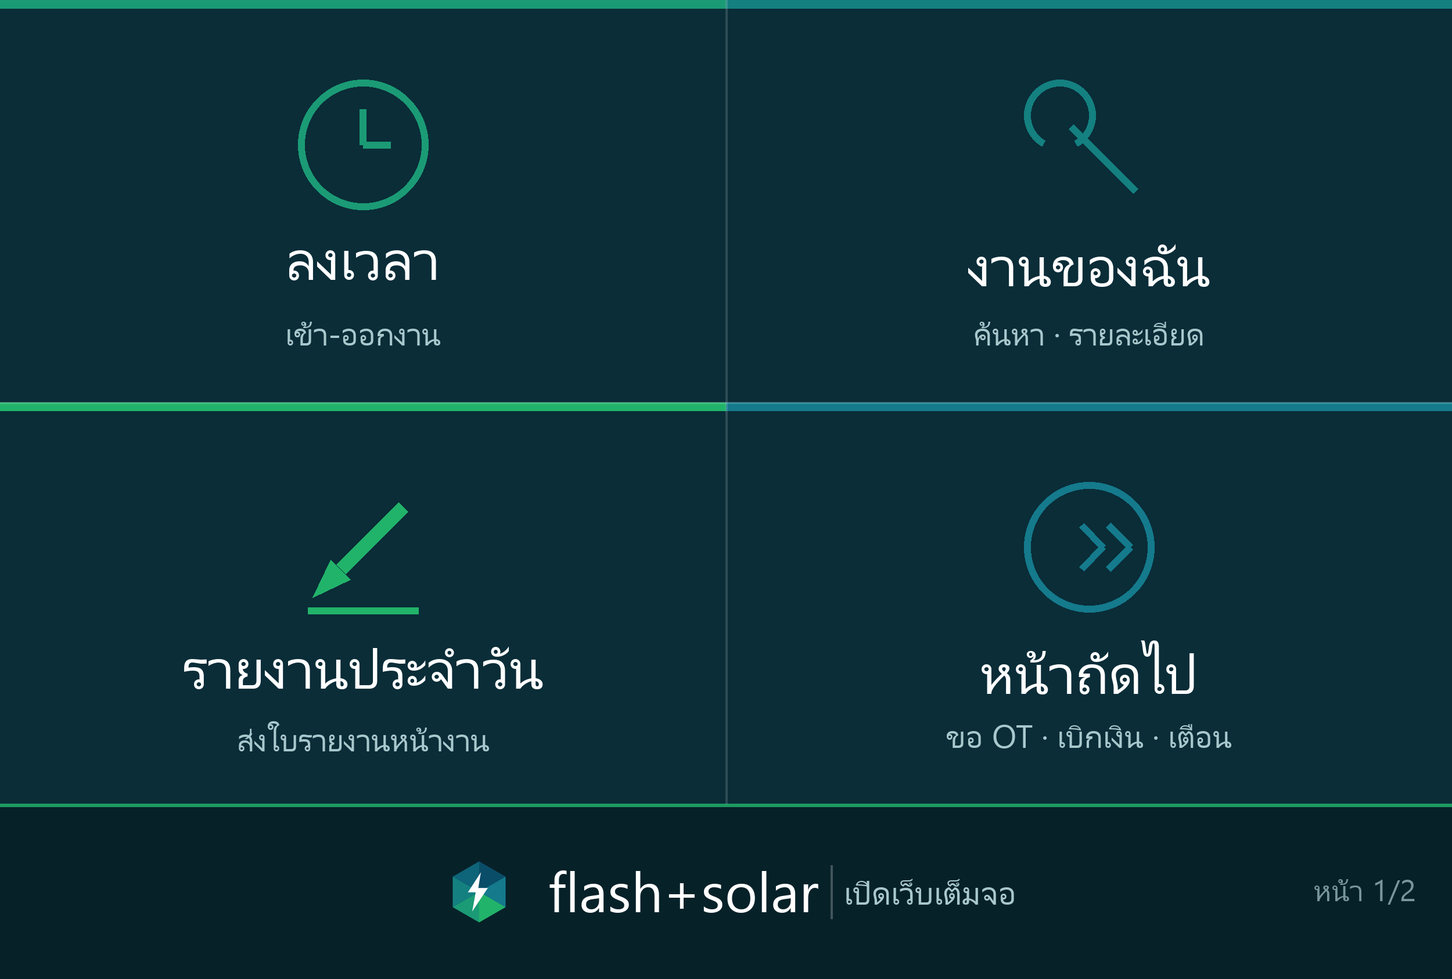
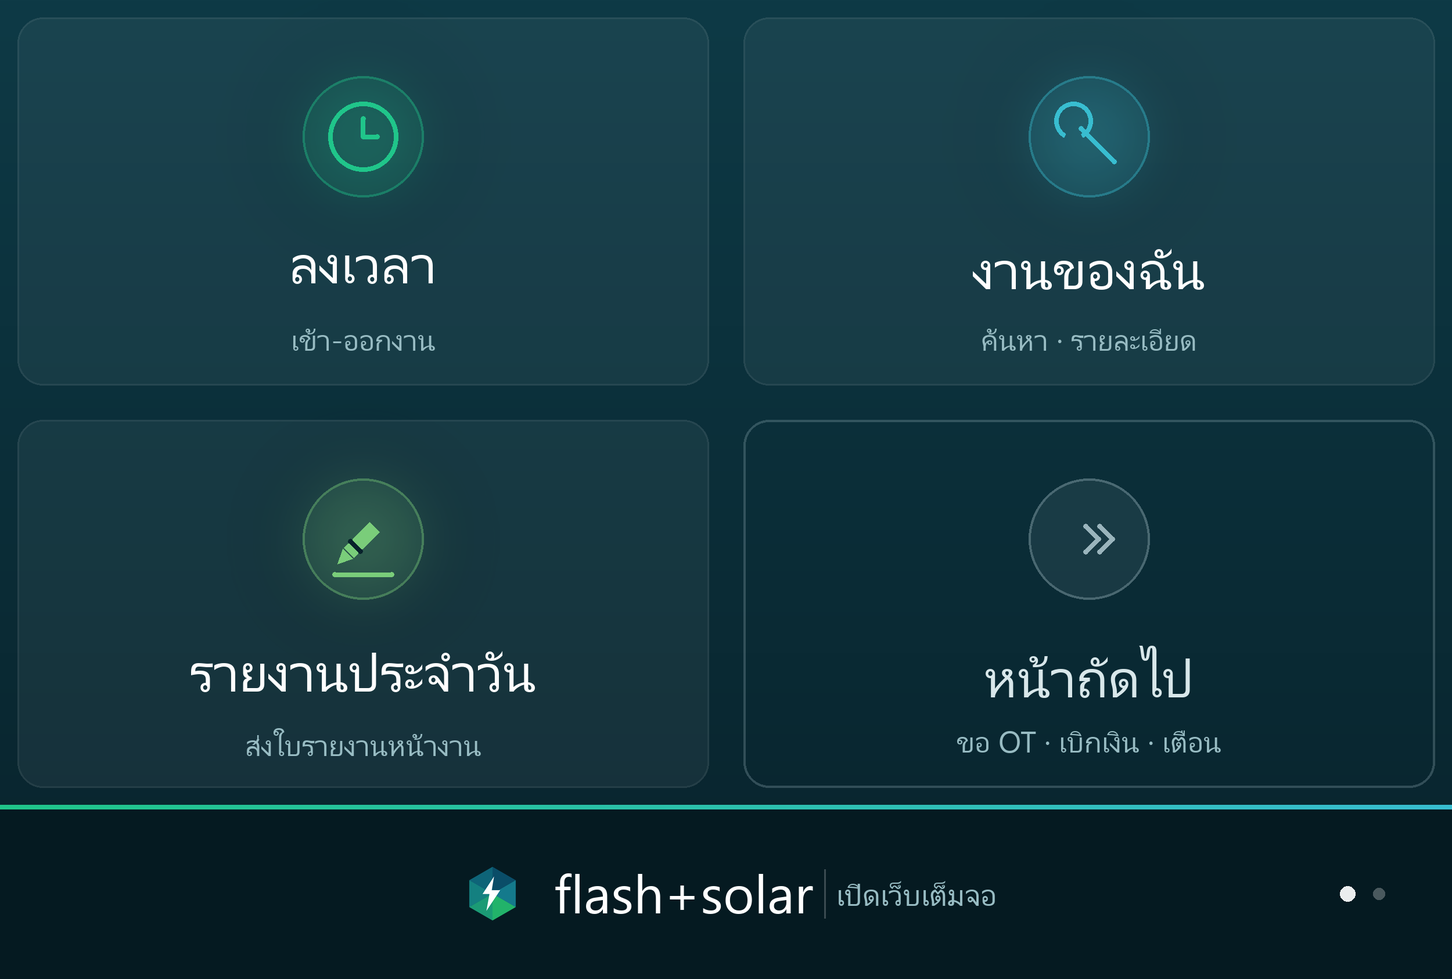
style(line): เมนูล่าง — การ์ดมุมมน พื้นไล่สี ไอคอนในวงกลม แยกทรงปุ่มสลับหน้า
รูปเดิมเป็นพื้นสีเดียวแบ่งช่องด้วยเส้นผมบาง ๆ บนจอแชทที่สว่างมันอ่านเป็น
กล่องทึบสี่เหลี่ยมหนึ่งใบ ไม่ใช่ปุ่มสี่ปุ่ม

- แต่ละช่องเป็นการ์ดมุมมนร่นเข้ามาจากขอบ 30px — พื้นที่กดยังเต็มช่องเหมือนเดิม
  กดพลาดไปโดนช่องว่างระหว่างการ์ดจึงยังได้ผลลัพธ์ที่ตั้งใจ
- ไอคอนอยู่ในวงกลมสีจาง มีแสงนวลเบลอรองอีกชั้น — ไอคอนเส้นบางลอยเดี่ยว ๆ
  สู้ตัวหนังสือ 96px ไม่ไหว
- ปุ่มสลับหน้าเป็นการ์ดโปร่งขอบสีเทา ลูกศรไม่มีวงกลมล้อม ต่างจากไอคอนฟีเจอร์
  ที่เป็นทรงปิด — ให้อ่านออกว่าเป็นทางไปอีกหน้า ไม่ใช่ฟีเจอร์ที่ห้า
- เลขหน้าในแถบล่างเปลี่ยนเป็นจุดสองจุด ไม่ต้องเติมตัวหนังสืออีกชุดเข้าไปในแถบ
- ไอคอนปากกาวาดใหม่เป็นรูปทรงจริง (ด้ามสี่เหลี่ยม + ปลายสามเหลี่ยม + ขีดคาด)
  ของเดิมเป็นเส้นหนาเฉียงคู่กับสามเหลี่ยมเล็ก ตาอ่านเป็นลูกศร ไม่ใช่ปากกา
- เส้นปลายมนทุกเส้นในไอคอน ImageDraw ลากเส้นปลายตัดตรงเสมอ ต้องแต้มวงกลม
  ที่ปลายเอง ให้เข้าชุดกับไอคอนเส้นในหน้าเว็บ

ดักไว้ในคอมเมนต์: ImageDraw.Draw(img, "RGBA") ผสมอัลฟาให้เฉพาะตอนภาพฐานเป็น RGB
ภาพฐานรอบนี้เป็น RGBA มันเขียนค่าดิบทับ วงกลมอัลฟา 26 ออกมาทึบจนกลืนไอคอนหาย
ของโปร่งทุกชิ้นจึงผ่าน overlay() ที่วาดลงเลเยอร์แยกแล้ว alpha_composite

ขนาดช่องยังเท่าเดิม 1250x693 แถบล่าง 300 — ตรงกับ cell() ใน richmenu.mjs
ตัวเลขชุดนี้ห้ามหลุดจากกัน ไม่งั้นปุ่มจะพาไปคนละที่กับที่รูปเขียนไว้

diff --git a/tools/richmenu-image.py b/tools/richmenu-image.py
@@ -18,37 +18,45 @@
 สี่ช่องบน 2x2 คือปุ่มงาน · แถบล่างเต็มความกว้างคือโลโก้ + ทางเข้าเว็บเต็มจอ
 แถบล่างเป็นพื้นที่กดได้เหมือนกัน ไม่ใช่ของตกแต่ง — ต้องตรงกับ AREAS ใน richmenu.mjs
 
+การ์ดมีระยะร่นเข้ามาจากขอบช่อง แต่ "พื้นที่กด" ยังเป็นสี่เหลี่ยมเต็มช่องเสมอ
+คนที่กดพลาดไปโดนช่องว่างระหว่างการ์ดจึงยังได้ผลลัพธ์ที่ตั้งใจ
+
 ไฟล์ผลลัพธ์ถูก commit ไว้ด้วย จะได้อัปเมนูขึ้น LINE ได้โดยไม่ต้องมี Pillow
 ให้รันสคริปต์นี้ใหม่เฉพาะตอนแก้ดีไซน์
 """
 import os
-from PIL import Image, ImageDraw, ImageFont
+from PIL import Image, ImageDraw, ImageFont, ImageFilter
 
 W, H = 2500, 1686          # ขนาดเต็มของเมนูล่าง LINE ต้องเป๊ะตามนี้
 BAR = 300                  # ความสูงของแถบโลโก้ด้านล่าง
 COLS, ROWS = 2, 2
 CW, CH = W // COLS, (H - BAR) // ROWS
 
-BG     = (10, 45, 56)      # พื้นหลังเข้ม — ตัดกับหน้าจอแชทที่สว่าง
-BAR_BG = (7, 33, 41)       # แถบล่างเข้มกว่าอีกนิด ให้อ่านออกว่าเป็นคนละส่วน
-LINE_C = (255, 255, 255, 38)
+PAD = 30                   # ระยะจากขอบช่องถึงขอบการ์ด
+RAD = 44                   # ความมนของมุมการ์ด
+
+TOP    = (14, 58, 70)      # พื้นไล่สีแนวตั้ง — สีเดียวทั้งใบทำให้ภาพดูแบนเหมือนกล่องทึบ
+BOTTOM = (8, 34, 43)
+CARD   = (255, 255, 255, 13)
+CARD_E = (255, 255, 255, 28)
 TEXT   = (255, 255, 255)
-SUB    = (168, 200, 205)
+SUB    = (152, 188, 195)
+BAR_BG = (5, 26, 33)
 
 # หน้าแรก — เรื่องที่ช่างกดทุกวัน
 PAGE1 = [
-    {"th": "ลงเวลา",          "sub": "เข้า-ออกงาน",              "color": (27, 155, 117), "icon": "clock"},
-    {"th": "งานของฉัน",       "sub": "ค้นหา · รายละเอียด",        "color": (20, 128, 128), "icon": "search"},
-    {"th": "รายงานประจำวัน",  "sub": "ส่งใบรายงานหน้างาน",        "color": (34, 179, 106), "icon": "pen"},
-    {"th": "หน้าถัดไป",       "sub": "ขอ OT · เบิกเงิน · เตือน",  "color": (20, 122, 140), "icon": "next"},
+    {"th": "ลงเวลา",          "sub": "เข้า-ออกงาน",              "color": (32, 197, 138), "icon": "clock"},
+    {"th": "งานของฉัน",       "sub": "ค้นหา · รายละเอียด",        "color": (56, 189, 208), "icon": "search"},
+    {"th": "รายงานประจำวัน",  "sub": "ส่งใบรายงานหน้างาน",        "color": (122, 205, 122), "icon": "pen"},
+    {"th": "หน้าถัดไป",       "sub": "ขอ OT · เบิกเงิน · เตือน",  "color": (154, 180, 188), "icon": "next", "nav": True},
 ]
 
 # หน้าสอง — เรื่องเอกสาร กดไม่บ่อยเท่า แต่ต้องหาเจอ
 PAGE2 = [
-    {"th": "ขอ OT",      "sub": "ทำงานล่วงเวลา",            "color": (34, 179, 106), "icon": "plus"},
-    {"th": "เบิกเงิน",   "sub": "ค่าใช้จ่ายหน้างาน",         "color": (27, 155, 117), "icon": "wallet"},
-    {"th": "แจ้งเตือน",  "sub": "งานใหม่ · เอกสารตีกลับ",    "color": (20, 128, 128), "icon": "bell"},
-    {"th": "ย้อนกลับ",   "sub": "ลงเวลา · งาน · รายงาน",     "color": (20, 122, 140), "icon": "back"},
+    {"th": "ขอ OT",      "sub": "ทำงานล่วงเวลา",            "color": (245, 183, 66),  "icon": "plus"},
+    {"th": "เบิกเงิน",   "sub": "ค่าใช้จ่ายหน้างาน",         "color": (32, 197, 138),  "icon": "wallet"},
+    {"th": "แจ้งเตือน",  "sub": "งานใหม่ · เอกสารตีกลับ",    "color": (56, 189, 208),  "icon": "bell"},
+    {"th": "ย้อนกลับ",   "sub": "ลงเวลา · งาน · รายงาน",     "color": (154, 180, 188), "icon": "back", "nav": True},
 ]
 
 FONT_DIR = os.path.join(os.environ.get("WINDIR", r"C:\Windows"), "Fonts")
@@ -65,52 +73,67 @@ def font(name, size):
     return ImageFont.load_default()
 
 
+def seg(d, x1, y1, x2, y2, color, w):
+    """เส้นปลายมน — ImageDraw ลากเส้นปลายตัดตรงเสมอ ไอคอนเลยดูแข็งกว่าที่ควร
+       เติมวงกลมที่ปลายทั้งสองข้างเอง ให้เข้าชุดกับไอคอนเส้นในหน้าเว็บ"""
+    d.line([x1, y1, x2, y2], fill=color, width=w)
+    r = w // 2
+    for x, y in ((x1, y1), (x2, y2)):
+        d.ellipse([x - r, y - r, x + r, y + r], fill=color)
+
+
 def draw_icon(d, kind, cx, cy, r, color):
     """ไอคอนวาดมือด้วยรูปทรงพื้นฐาน — ไม่พึ่งฟอนต์ไอคอนหรือไฟล์ภาพจากที่อื่น"""
-    w = max(6, r // 9)
+    w = max(7, int(r * 0.14))
     if kind == "clock":
         d.ellipse([cx - r, cy - r, cx + r, cy + r], outline=color, width=w)
-        d.line([cx, cy, cx, cy - int(r * 0.55)], fill=color, width=w)
-        d.line([cx, cy, cx + int(r * 0.42), cy], fill=color, width=w)
+        seg(d, cx, cy, cx, cy - int(r * 0.52), color, w)
+        seg(d, cx, cy, cx + int(r * 0.4), cy, color, w)
     elif kind == "bell":
         d.arc([cx - r, cy - r, cx + r, cy + int(r * 0.5)], 180, 360, fill=color, width=w)
-        d.line([cx - r, cy + int(r * 0.25), cx + r, cy + int(r * 0.25)], fill=color, width=w)
-        d.line([cx - r, cy + int(r * 0.25), cx - r, cy - int(r * 0.1)], fill=color, width=w)
-        d.line([cx + r, cy + int(r * 0.25), cx + r, cy - int(r * 0.1)], fill=color, width=w)
-        d.arc([cx - int(r * 0.32), cy + int(r * 0.1), cx + int(r * 0.32), cy + int(r * 0.62)],
+        seg(d, cx - r, cy + int(r * 0.25), cx - r, cy - int(r * 0.12), color, w)
+        seg(d, cx + r, cy + int(r * 0.25), cx + r, cy - int(r * 0.12), color, w)
+        seg(d, cx - int(r * 1.14), cy + int(r * 0.28), cx + int(r * 1.14), cy + int(r * 0.28), color, w)
+        d.arc([cx - int(r * 0.3), cy + int(r * 0.16), cx + int(r * 0.3), cy + int(r * 0.72)],
               0, 180, fill=color, width=w)
     elif kind == "plus":
         d.ellipse([cx - r, cy - r, cx + r, cy + r], outline=color, width=w)
-        d.line([cx - int(r * 0.5), cy, cx + int(r * 0.5), cy], fill=color, width=w)
-        d.line([cx, cy - int(r * 0.5), cx, cy + int(r * 0.5)], fill=color, width=w)
+        seg(d, cx - int(r * 0.44), cy, cx + int(r * 0.44), cy, color, w)
+        seg(d, cx, cy - int(r * 0.44), cx, cy + int(r * 0.44), color, w)
     elif kind == "pen":
-        # ปากกาเฉียง — ด้ามหนา + ปลายปากกาเป็นสามเหลี่ยมตัน แล้วขีดเส้นบรรทัดรองข้างใต้
-        # (ลากเป็นเส้นบาง ๆ อย่างเดียวจะดูเป็นขีดเฉย ๆ ไม่ใช่ปากกา)
-        d.line([cx - int(r * 0.34), cy + int(r * 0.34), cx + int(r * 0.62), cy - int(r * 0.62)],
-               fill=color, width=int(w * 2.1))
-        d.polygon([(cx - int(r * 0.78), cy + int(r * 0.78)),
-                   (cx - int(r * 0.5), cy + int(r * 0.2)),
-                   (cx - int(r * 0.2), cy + int(r * 0.5))], fill=color)
-        d.line([cx - int(r * 0.85), cy + int(r * 0.98), cx + int(r * 0.85), cy + int(r * 0.98)],
-               fill=color, width=w)
+        # ปากกาเฉียง — วาดเป็นรูปทรงจริง (ด้ามสี่เหลี่ยม + ปลายสามเหลี่ยม) ไม่ใช่เส้นหนา
+        # เส้นหนาเฉียง ๆ กับสามเหลี่ยมเล็กรวมกันแล้วตาอ่านเป็น "ลูกศร" ไม่ใช่ปากกา
+        k = 0.7071
+        ux, uy = k, -k          # ทิศจากปลายปากกาไปทางด้าม
+        nx, ny = k, k           # ตั้งฉาก ใช้วัดความหนาด้าม
+        hw = r * 0.2
+        tipx, tipy = cx - r * 0.72, cy + r * 0.72
+
+        def at(s, o):
+            return (tipx + ux * r * s + nx * o, tipy + uy * r * s + ny * o)
+
+        d.polygon([(tipx, tipy), at(0.4, -hw), at(0.4, hw)], fill=color)          # ปลายปากกา
+        d.polygon([at(0.46, -hw), at(1.5, -hw), at(1.5, hw), at(0.46, hw)], fill=color)   # ด้าม
+        # ขีดคาดด้าม — ให้เห็นว่าเป็นปากกาไม่ใช่แท่งเปล่า ใช้สีพื้นการ์ดเจาะเป็นร่อง
+        seg(d, at(0.72, -hw)[0], at(0.72, -hw)[1], at(0.72, hw)[0], at(0.72, hw)[1], BOTTOM, w)
+        seg(d, cx - int(r * 0.82), cy + int(r * 1.02), cx + int(r * 0.82), cy + int(r * 1.02), color, w)
     elif kind == "wallet":
         d.rounded_rectangle([cx - r, cy - int(r * 0.66), cx + r, cy + int(r * 0.66)],
-                            radius=int(r * 0.22), outline=color, width=w)
-        d.line([cx - r, cy - int(r * 0.2), cx + r, cy - int(r * 0.2)], fill=color, width=w)
-        d.ellipse([cx + int(r * 0.28), cy + int(r * 0.02), cx + int(r * 0.58), cy + int(r * 0.32)],
+                            radius=int(r * 0.26), outline=color, width=w)
+        seg(d, cx - int(r * 0.86), cy - int(r * 0.2), cx + int(r * 0.86), cy - int(r * 0.2), color, w)
+        d.ellipse([cx + int(r * 0.24), cy + int(r * 0.04), cx + int(r * 0.56), cy + int(r * 0.36)],
                   fill=color)
     elif kind in ("next", "back"):
+        # ปุ่มนำทางใช้ลูกศรเปล่า ไม่มีวงกลมล้อม — ให้ต่างจากไอคอนฟีเจอร์ที่เป็นทรงปิด
         s = 1 if kind == "next" else -1
-        d.ellipse([cx - r, cy - r, cx + r, cy + r], outline=color, width=w)
-        for dx in (-0.12, 0.3):
-            d.line([cx + s * int(r * dx), cy - int(r * 0.34),
-                    cx + s * int(r * (dx + 0.34)), cy], fill=color, width=w)
-            d.line([cx + s * int(r * (dx + 0.34)), cy,
-                    cx + s * int(r * dx), cy + int(r * 0.34)], fill=color, width=w)
+        for dx in (-0.1, 0.3):
+            seg(d, cx + s * int(r * dx), cy - int(r * 0.38),
+                cx + s * int(r * (dx + 0.38)), cy, color, w)
+            seg(d, cx + s * int(r * (dx + 0.38)), cy,
+                cx + s * int(r * dx), cy + int(r * 0.38), color, w)
     else:  # search — แว่นขยาย: วงแหวนเปิดมุมล่างขวา + ด้าม
         d.arc([cx - r, cy - r, cx + int(r * 0.1), cy + int(r * 0.1)], 120, 60, fill=color, width=w)
-        d.line([cx - int(r * 0.28), cy - int(r * 0.28), cx + int(r * 0.72), cy + int(r * 0.72)],
-               fill=color, width=w)
+        seg(d, cx - int(r * 0.24), cy - int(r * 0.24), cx + int(r * 0.72), cy + int(r * 0.72), color, w)
 
 
 def centered(d, txt, fnt, cx, cy, fill):
@@ -118,65 +141,111 @@ def centered(d, txt, fnt, cx, cy, fill):
     d.text((cx - (bb[2] - bb[0]) / 2, cy - (bb[3] - bb[1]) / 2 - bb[1]), txt, font=fnt, fill=fill)
 
 
-def brand_bar(img, d, page):
-    """แถบล่าง — โลโก้ + ทางเข้าเว็บเต็มจอ กดได้จริง ไม่ใช่ของตกแต่ง"""
-    y0 = H - BAR
-    d.rectangle([0, y0, W, H], fill=BAR_BG)
-    d.line([0, y0, W, y0], fill=(34, 179, 106, 210), width=6)
+def gradient_bg():
+    """พื้นไล่สีแนวตั้ง วาดทีละแถว — ไม่ต้องมี numpy"""
+    img = Image.new("RGB", (W, H), BOTTOM)
+    d = ImageDraw.Draw(img)
+    for y in range(H):
+        t = y / (H - 1)
+        d.line([0, y, W, y], fill=tuple(int(TOP[i] + (BOTTOM[i] - TOP[i]) * t) for i in range(3)))
+    return img
 
-    f_word = font("LeelawUI.ttf", 96)
-    f_note = font("leelawad.ttf", 58)
-    f_page = font("leelawad.ttf", 52)
 
-    mark_h = 150
-    word = "flash+solar"
-    note = "เปิดเว็บเต็มจอ"
-    bw = d.textbbox((0, 0), word, font=f_word)
-    bn = d.textbbox((0, 0), note, font=f_note)
-    gap = 44
-    total = mark_h + gap + (bw[2] - bw[0]) + gap + (bn[2] - bn[0])
-    x = (W - total) // 2
-    cy = y0 + BAR // 2
+def overlay(img, fn, blur=0):
+    """วาดของโปร่งแสงลงเลเยอร์แยกแล้วค่อยผสมเข้าภาพ
 
-    if os.path.exists(LOGO):
-        mark = Image.open(LOGO).convert("RGBA").resize((mark_h, mark_h), Image.LANCZOS)
-        img.paste(mark, (x, cy - mark_h // 2), mark)
-    x += mark_h + gap
-    d.text((x, cy - (bw[3] - bw[1]) / 2 - bw[1]), word, font=f_word, fill=TEXT)
-    x += (bw[2] - bw[0]) + gap
-    d.line([x - gap // 2, cy - 46, x - gap // 2, cy + 46], fill=(255, 255, 255, 60), width=4)
-    d.text((x, cy - (bn[3] - bn[1]) / 2 - bn[1]), note, font=f_note, fill=SUB)
+    ⚠ อย่าเผลอใช้ ImageDraw.Draw(img, "RGBA") วาดสีที่มีอัลฟาลงภาพนี้ตรง ๆ
+       โหมด "RGBA" ของ ImageDraw ผสมอัลฟาให้เฉพาะตอนภาพฐานเป็น RGB เท่านั้น
+       ภาพฐานที่นี่เป็น RGBA มันจะเขียนค่าดิบทับ — วงกลมอัลฟา 26 จะออกมาทึบ 100%
+    """
+    lay = Image.new("RGBA", img.size, (0, 0, 0, 0))
+    fn(ImageDraw.Draw(lay))
+    img.alpha_composite(lay.filter(ImageFilter.GaussianBlur(blur)) if blur else lay)
 
-    # เลขหน้า มุมขวา — บอกว่ามีสองหน้าให้สลับ ไม่ใช่เมนูเดียวที่เปลี่ยนรูปเอง
-    centered(d, "หน้า " + str(page) + "/2", f_page, W - 150, cy, (120, 150, 156))
+
+def glow(img, cx, cy, r, color):
+    """แสงนวลหลังไอคอน — เบลอไว้ ไม่งั้นจะเป็นวงขอบแข็ง ๆ"""
+    overlay(img, lambda dl: dl.ellipse([cx - r, cy - r, cx + r, cy + r], fill=color + (52,)),
+            blur=r * 0.45)
 
 
 def build(cells, page, out):
-    img = Image.new("RGB", (W, H), BG)
-    d = ImageDraw.Draw(img, "RGBA")
+    img = gradient_bg().convert("RGBA")
 
-    f_title = font("LeelawUI.ttf", 100)
-    f_sub = font("leelawad.ttf", 56)
+    f_title = font("LeelawUI.ttf", 96)
+    f_sub = font("leelawad.ttf", 52)
 
     for i, c in enumerate(cells):
         col, row = i % COLS, i // COLS
         x0, y0 = col * CW, row * CH
         cx = x0 + CW // 2
+        nav = c.get("nav")
 
-        # แถบสีบาง ๆ ด้านบนของช่อง — บอกว่าแต่ละช่องคนละเรื่องกัน โดยไม่ต้องตีกรอบให้รก
-        d.rectangle([x0, y0, x0 + CW, y0 + 14], fill=c["color"])
+        # การ์ด — ปุ่มนำทางเป็นการ์ดโปร่งขอบสี ให้อ่านออกว่าเป็นทางไปอีกหน้า ไม่ใช่ฟีเจอร์
+        overlay(img, lambda dl: dl.rounded_rectangle(
+            [x0 + PAD, y0 + PAD, x0 + CW - PAD, y0 + CH - PAD], radius=RAD,
+            fill=(0, 0, 0, 0) if nav else CARD,
+            outline=(c["color"] + (72,)) if nav else CARD_E, width=4 if nav else 3))
 
-        draw_icon(d, c["icon"], cx, y0 + int(CH * 0.36), 112, c["color"])
-        centered(d, c["th"], f_title, cx, y0 + int(CH * 0.66), TEXT)
-        centered(d, c["sub"], f_sub, cx, y0 + int(CH * 0.83), SUB)
+        icy = y0 + int(CH * 0.34)
+        if not nav:
+            glow(img, cx, icy, 140, c["color"])
+        # วงกลมรองไอคอน — ไอคอนเส้นบางลอยเดี่ยว ๆ สู้ตัวหนังสือ 96px ไม่ไหว
+        overlay(img, lambda dl: dl.ellipse([cx - 104, icy - 104, cx + 104, icy + 104],
+                                           fill=c["color"] + (26,), outline=c["color"] + (112,), width=4))
+        d = ImageDraw.Draw(img)
+        draw_icon(d, c["icon"], cx, icy, 60, c["color"])
 
-    # เส้นแบ่งช่อง วาดทีหลังสุดให้ทับทุกอย่าง
-    d.line([CW, 0, CW, H - BAR], fill=LINE_C, width=4)
-    d.line([0, CH, W, CH], fill=LINE_C, width=4)
+        centered(d, c["th"], f_title, cx, y0 + int(CH * 0.67), TEXT if not nav else (216, 231, 234))
+        centered(d, c["sub"], f_sub, cx, y0 + int(CH * 0.845), SUB)
 
-    brand_bar(img, d, page)
-    img.save(out, "PNG", optimize=True)
+    brand_bar(img, page)
+    img.convert("RGB").save(out, "PNG", optimize=True)
     print("wrote", out, os.path.getsize(out), "bytes")
+
+
+def brand_bar(img, page):
+    """แถบล่าง — โลโก้ + ทางเข้าเว็บเต็มจอ กดได้จริง ไม่ใช่ของตกแต่ง"""
+    y0 = H - BAR
+    d = ImageDraw.Draw(img)
+    d.rectangle([0, y0, W, H], fill=BAR_BG)
+
+    # เส้นคั่นไล่สีเขียว→ฟ้า — สิ่งเดียวที่กันไม่ให้แถบล่างดูเหมือนขอบดำของรูป
+    for x in range(W):
+        t = x / (W - 1)
+        d.line([x, y0, x, y0 + 7],
+               fill=(int(32 + 24 * t), int(197 - 8 * t), int(138 + 70 * t)))
+
+    f_word = font("LeelawUI.ttf", 92)
+    f_note = font("leelawad.ttf", 54)
+
+    mark_h = 132
+    word, note = "flash+solar", "เปิดเว็บเต็มจอ"
+    bw = d.textbbox((0, 0), word, font=f_word)
+    bn = d.textbbox((0, 0), note, font=f_note)
+    gap = 40
+    total = mark_h + gap + (bw[2] - bw[0]) + gap + (bn[2] - bn[0])
+    x = (W - total) // 2
+    cy = y0 + (BAR + 7) // 2
+
+    if os.path.exists(LOGO):
+        mark = Image.open(LOGO).convert("RGBA").resize((mark_h, mark_h), Image.LANCZOS)
+        img.alpha_composite(mark, (x, cy - mark_h // 2))
+    x += mark_h + gap
+    d.text((x, cy - (bw[3] - bw[1]) / 2 - bw[1]), word, font=f_word, fill=TEXT)
+    x += (bw[2] - bw[0]) + gap
+    overlay(img, lambda dl: dl.line([x - gap // 2, cy - 42, x - gap // 2, cy + 42],
+                                    fill=(255, 255, 255, 55), width=3))
+    d.text((x, cy - (bn[3] - bn[1]) / 2 - bn[1]), note, font=f_note, fill=SUB)
+
+    # จุดบอกหน้า — สื่อว่ามีสองหน้าให้สลับ โดยไม่ต้องเติมตัวหนังสืออีกชุดเข้าไปในแถบ
+    def dots(dl):
+        for i in (1, 2):
+            r = 13 if i == page else 10
+            dx = W - 180 + (i - 1) * 54
+            dl.ellipse([dx - r, cy - r, dx + r, cy + r],
+                       fill=(255, 255, 255, 235) if i == page else (255, 255, 255, 70))
+    overlay(img, dots)
 
 
 def main():
